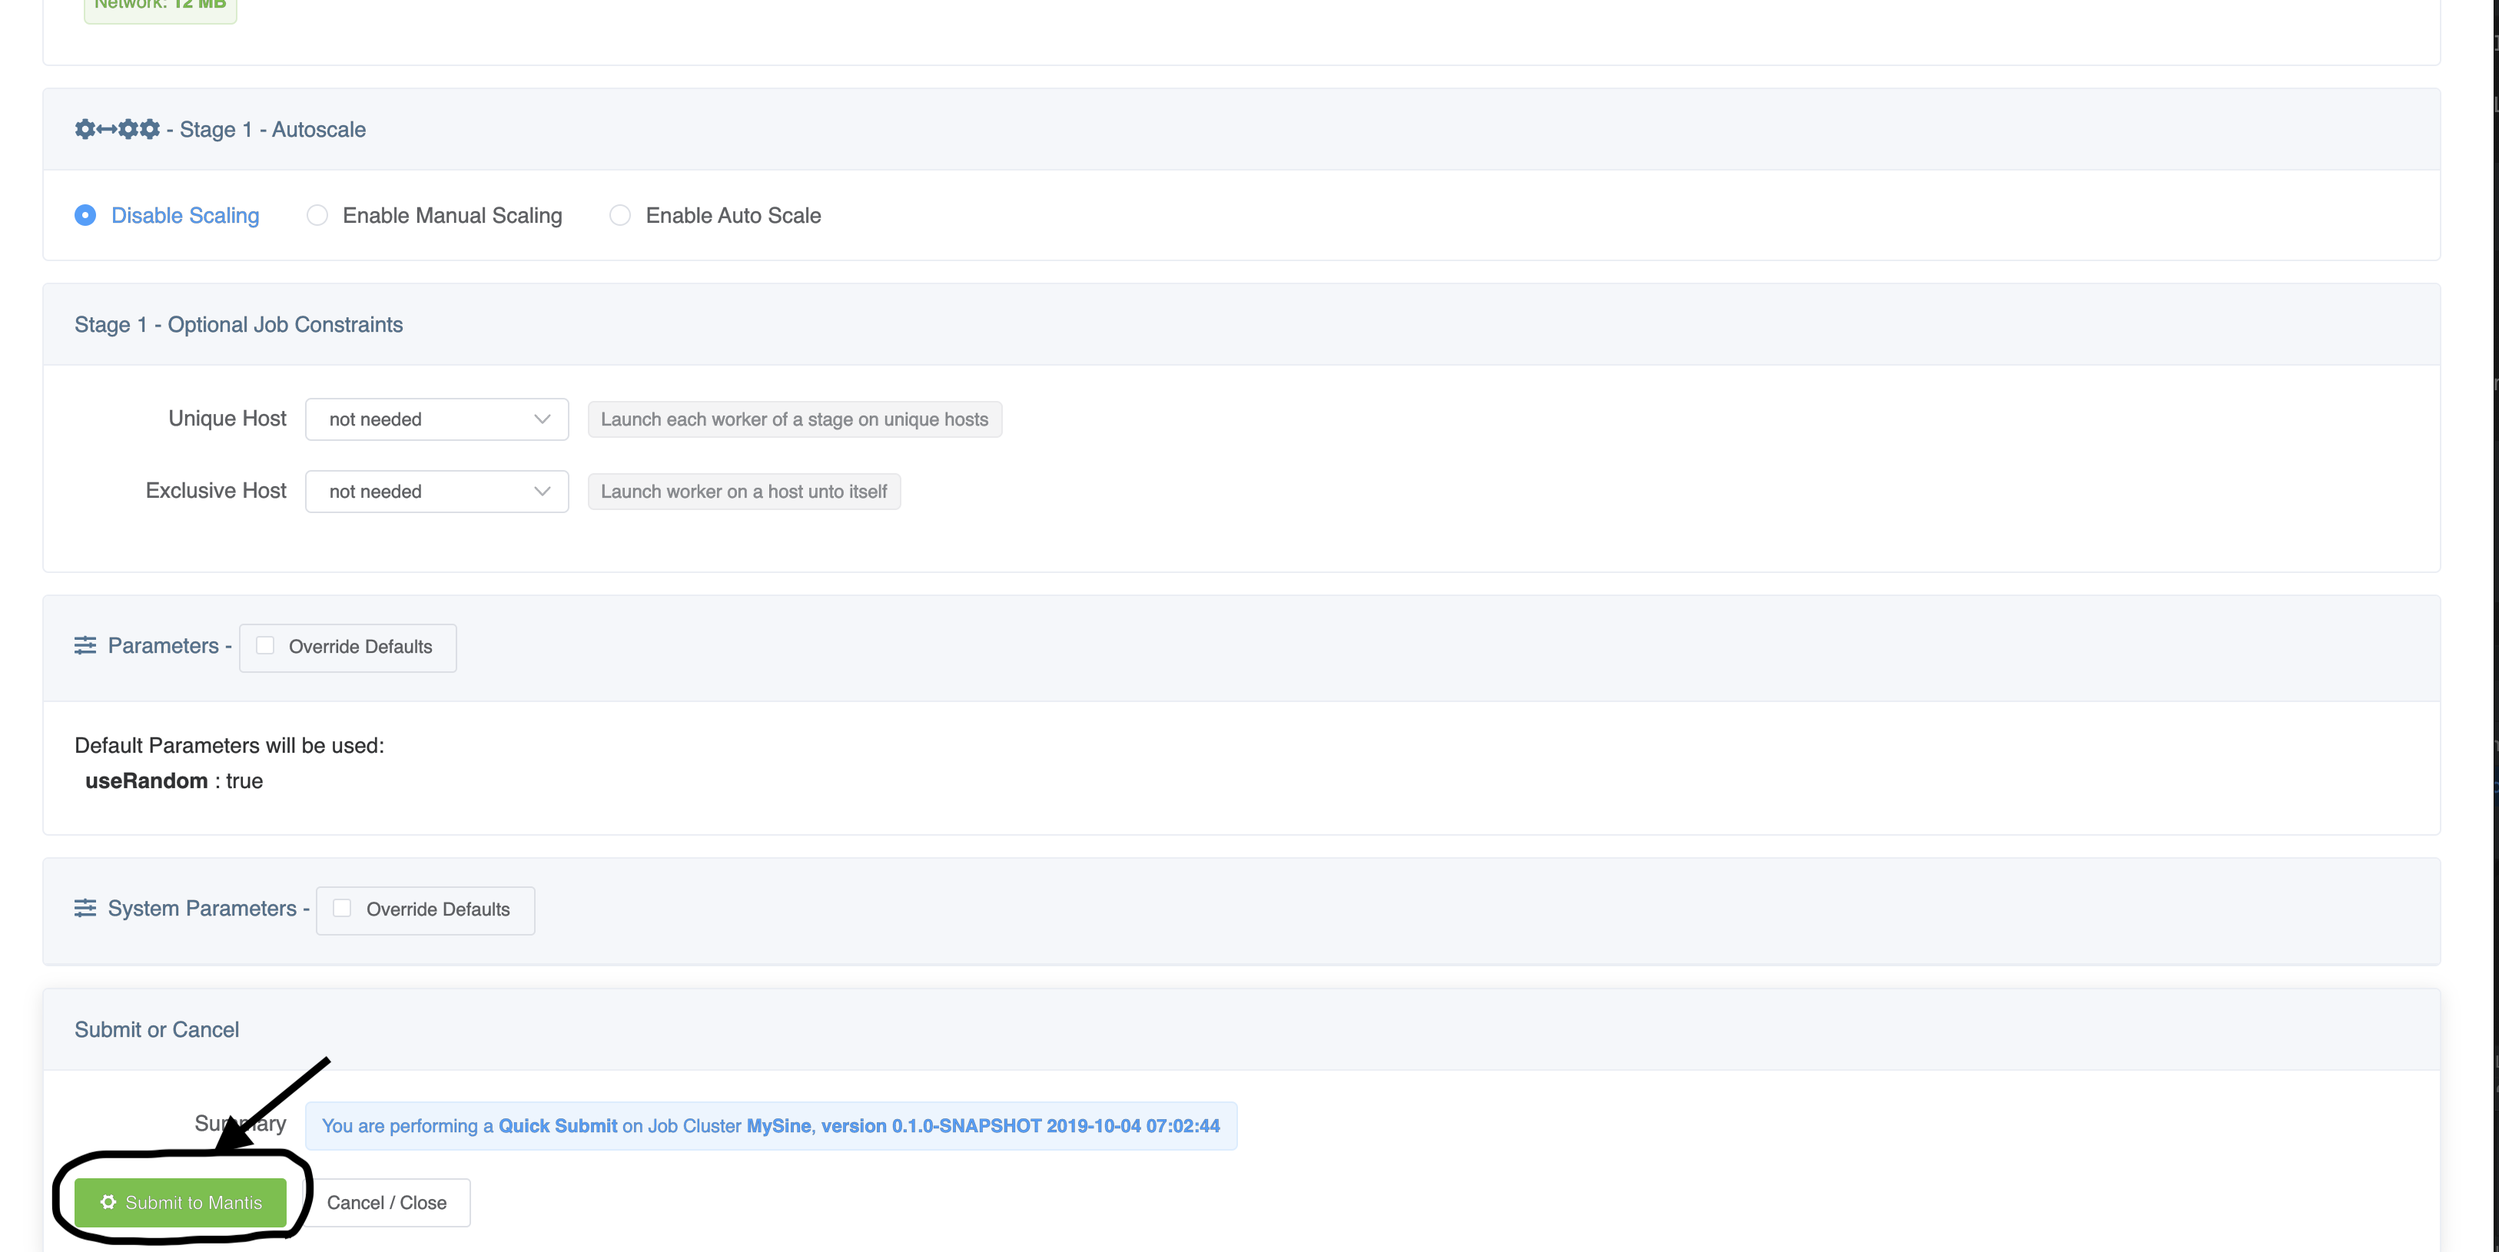
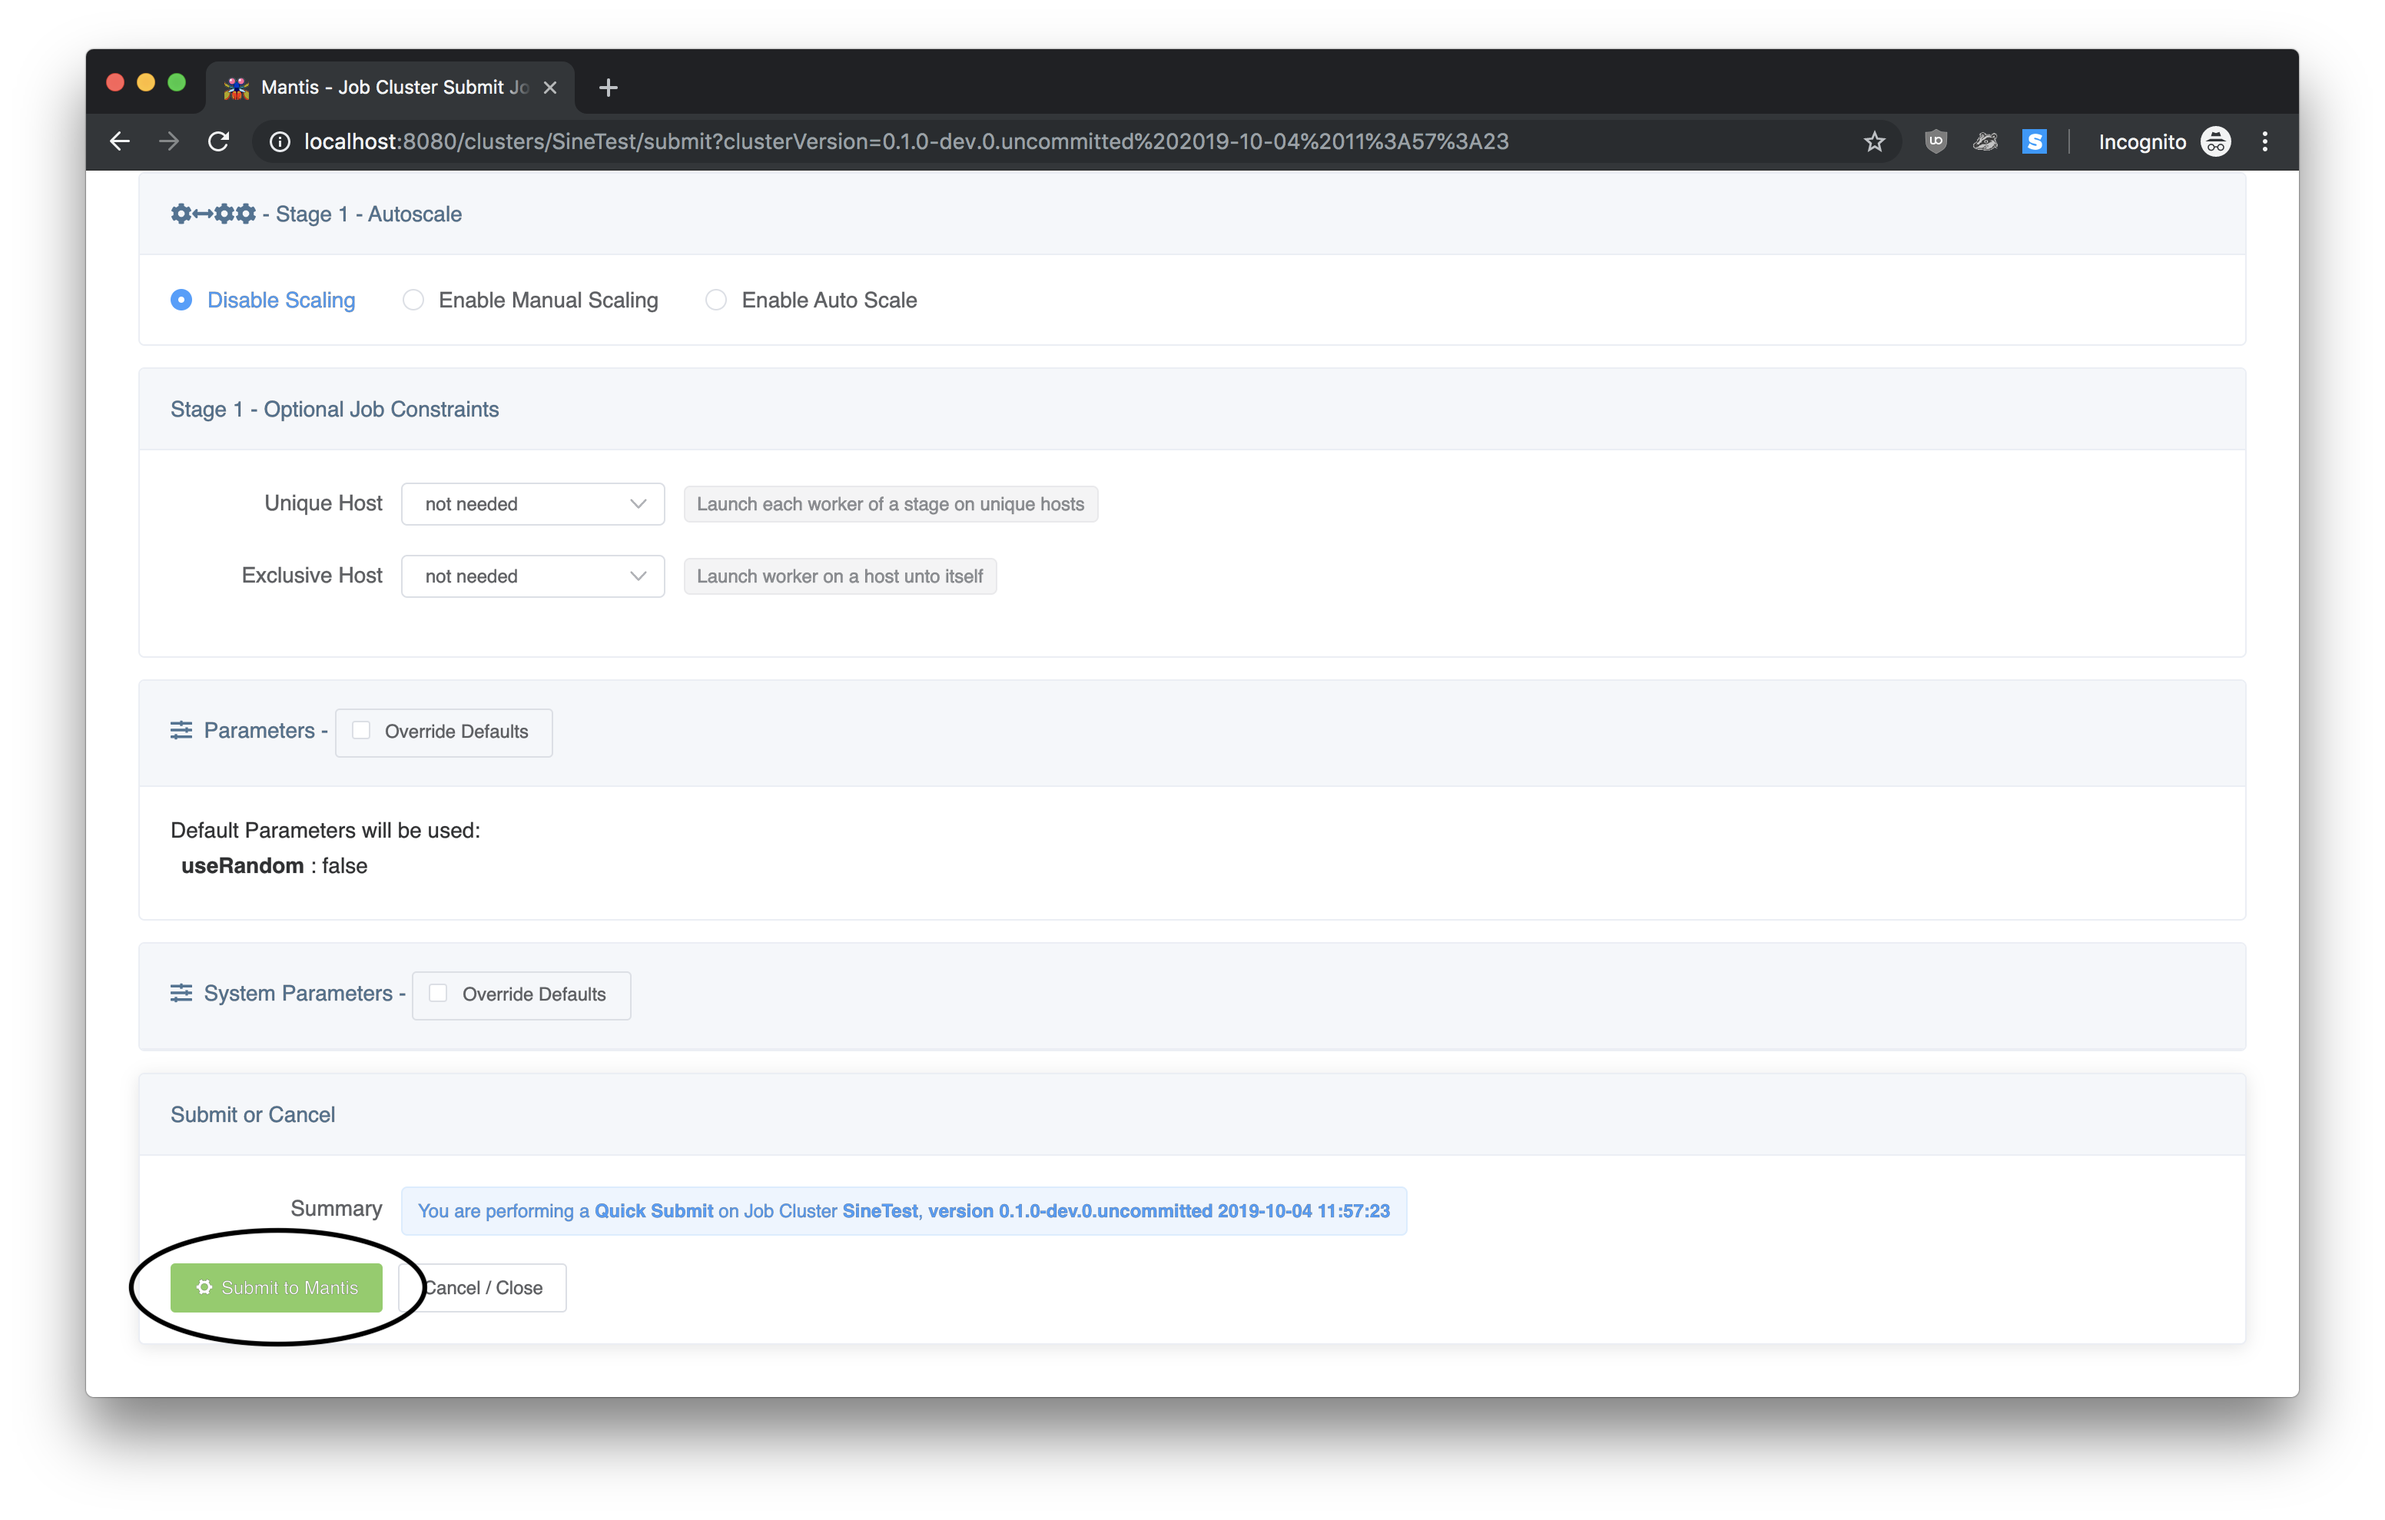
Add Mantis CLI AWS bootstrap UI tutorial.

diff --git a/docs/docs/gettingstarted.md b/docs/docs/gettingstarted.md
@@ -97,7 +97,7 @@ $ docker exec -it mantis_mantisagent_1 bash
 # Job logs can be found here.
 $ cd mesos_workdir/slaves/c4079175-cb01-4990-a963-fc8fa7c0b516-S0/frameworks/MantisFramework/executors
 ```
-#### Use the Mantis UI
+#### Using the Mantis UI
 
 Clone the Mantis UI project:
 
@@ -123,11 +123,11 @@ Point your browser to the above URL and fill out the Registration form as follow
 
 ![Fresh Mantis UI](./images/fresh_ui.png)
 
-1. Name : Example
-2. Email : example@example.com
-3. Master Name : Example
-4. Mantis Master API URL : http://localhost:7101
-5. Mesos URL : http://localhost:5050
+1. **Name:** `Example`
+2. **Email:** `example@example.com`
+3. **Master Name:** `Example`
+4. **Mantis API URL:** `http://localhost:7101`
+5. **Mesos URL:** `http://localhost:5050`
 
 Click on `Create`
 
@@ -176,9 +176,9 @@ Let us skip all that and scroll directly to the bottom and hit the `Submit` butt
 
 ![Submit Job](./images/submit_job.png)
 
-
 View output of the job
-If all goes well your job would go into 'Launched' state.
+
+If all goes well your job would go into `Launched` state.
 
 ![Job Launched](./images/job_launched.png)
 
@@ -300,14 +300,66 @@ are 2 EC2 address. You will need these to input into the Mantis UI.
 
 #### Using the Mantis UI
 
-To use the Mantis UI, first follow the instructions on the
-[Mantis UI README](https://github.com/Netflix/mantis-ui/blob/master/README.md) to get the
-UI running locally.
+Clone the Mantis UI project:
 
-Once you have the UI running, open a browser to `localhost:8080` and input the Mantis API
-and Mesos Master URLs along with other information.
+```bash
+$ git clone git@github.com:netflix/mantis-ui.git
+```
+
+Run the following commands (in the root directory of this project) to get all dependencies installed and to start the server:
+
+```bash
+$ yarn
+$ yarn serve
+```
+
+Once the node server is up it should print something like:
+
+```
+ App running at:
+ Local:   http://localhost:8080/
+```
+
+Point your browser to the above URL and fill out the Registration form as follows:
 
 ![Fresh Mantis UI](./images/fresh_ui.png)
+
+1. **Name:** `Example`
+2. **Email:** `example@example.com`
+3. **Master Name:** `Example`
+4. **Mantis API URL:** `<your ec2 Mantis API URL outputted from the Mantis CLI>`
+5. **Mesos URL:** `<your ec2 Mesos URL outputted from the Mantis CLI>`
+
+#### Launching a Mantis Job
+
+When you go into the UI, you'll notice that the Mantis CLI has automatically preloaded a Job Cluster for you to try out.
+Simply click on the `SineTest` Job Cluster to go into the cluster details page.
+
+![Preloaded Job Cluster](./images/preloaded_job_cluster.png)
+
+Once in the cluster details page, click on the green `Submit latest version` button on the top right to bring
+you to the Job Submit page.
+
+![Submit latest version](./images/cluster_details.png)
+
+On the Job Submit page, everything has already been configured for you. All you have to do is hit the
+green `Submit to Mantis` button at the bottom of the page to launch your first Mantis Job.
+
+![Submit Job](./images/submit_job.png)
+
+Now you can view the output of this job.
+
+If all goes well your job would go into `Launched` state.
+
+![Job Launched](./images/job_output.png)
+
+Scroll to the bottom and in the `Job Output` section click on `Start`
+
+You should see output of the Sine function job being streamed below
+
+```
+Oct 4 2019, 03:55:39.338 PM - {"x": 26.000000, "y": 7.625585}
+```
 
 #### Tearing down your cluster
 
